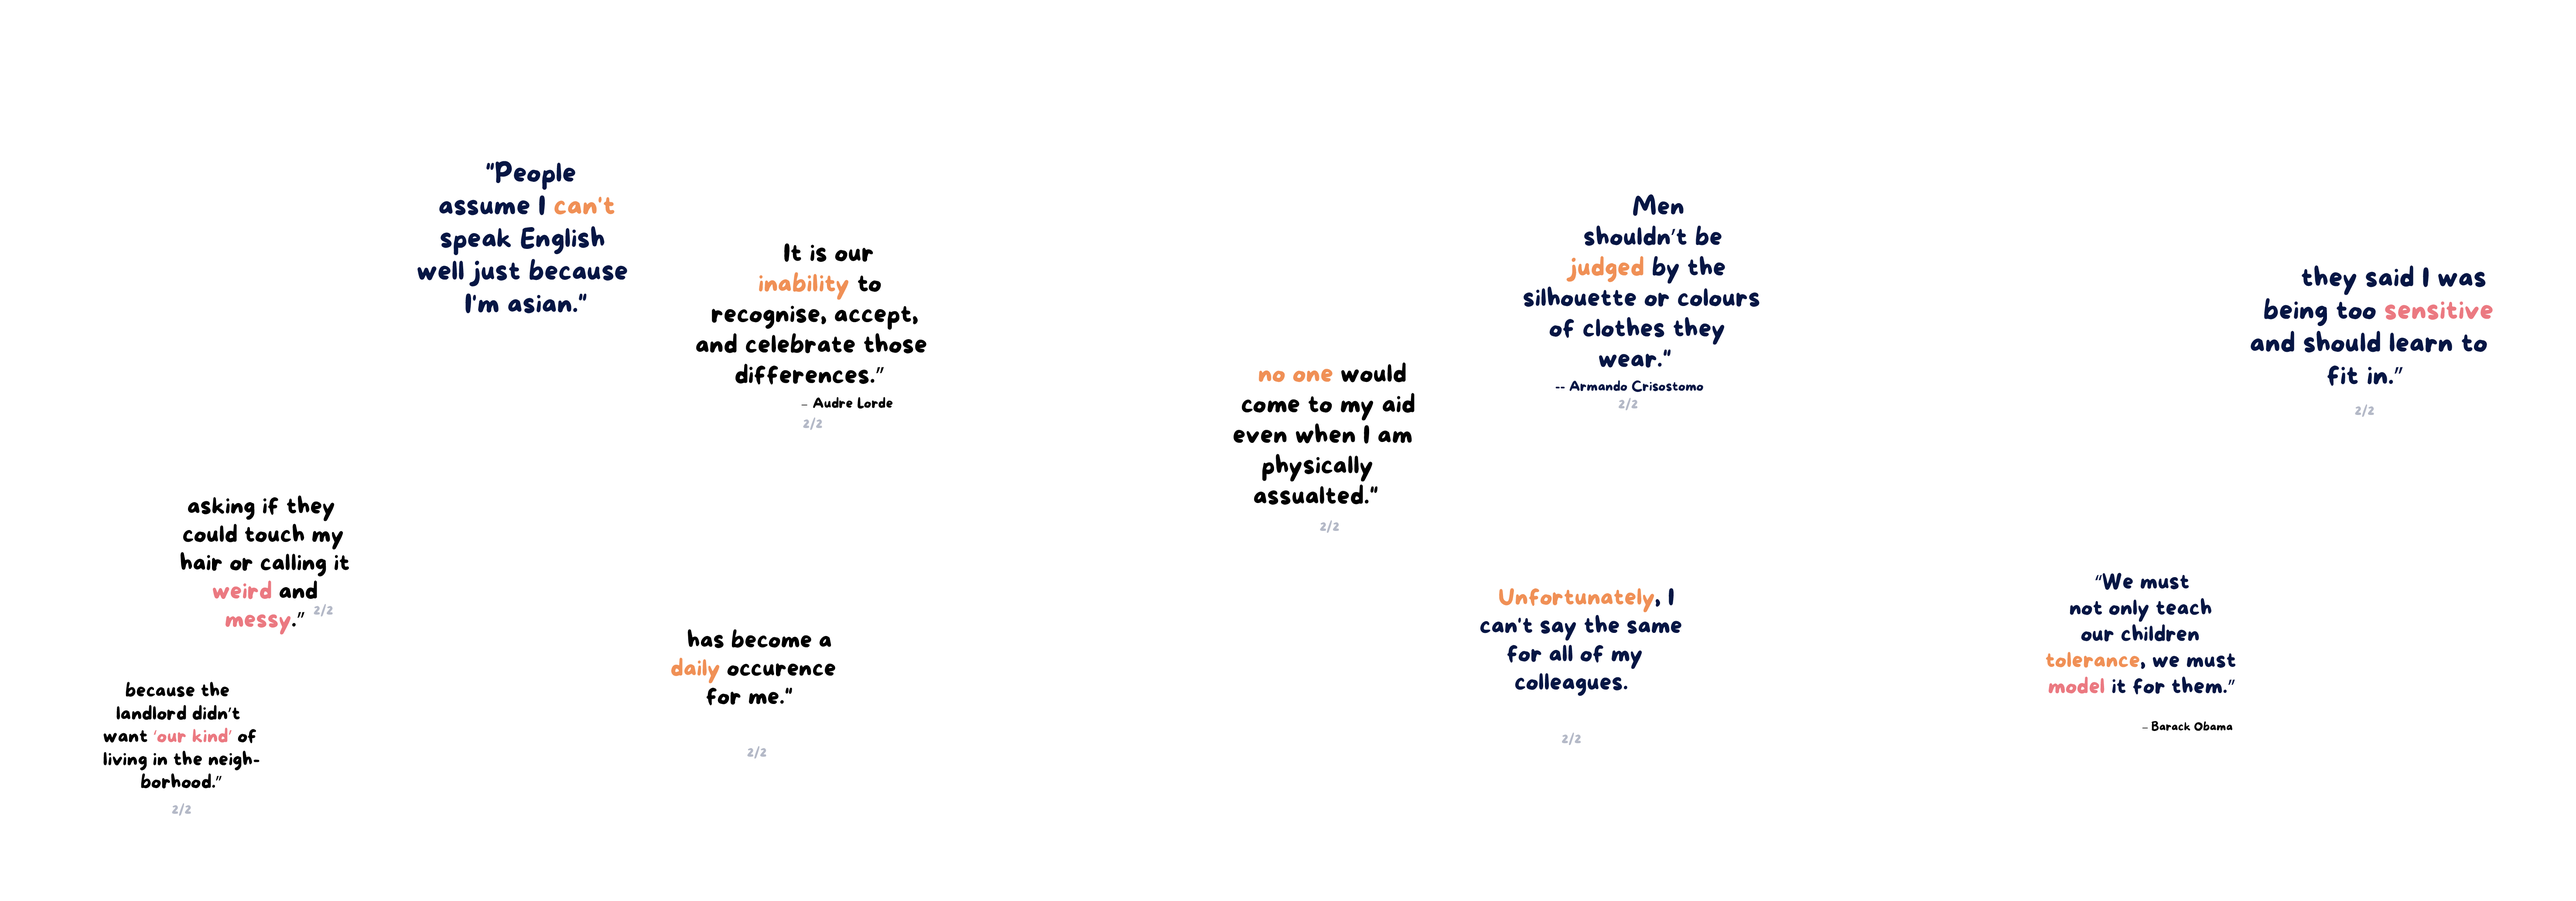
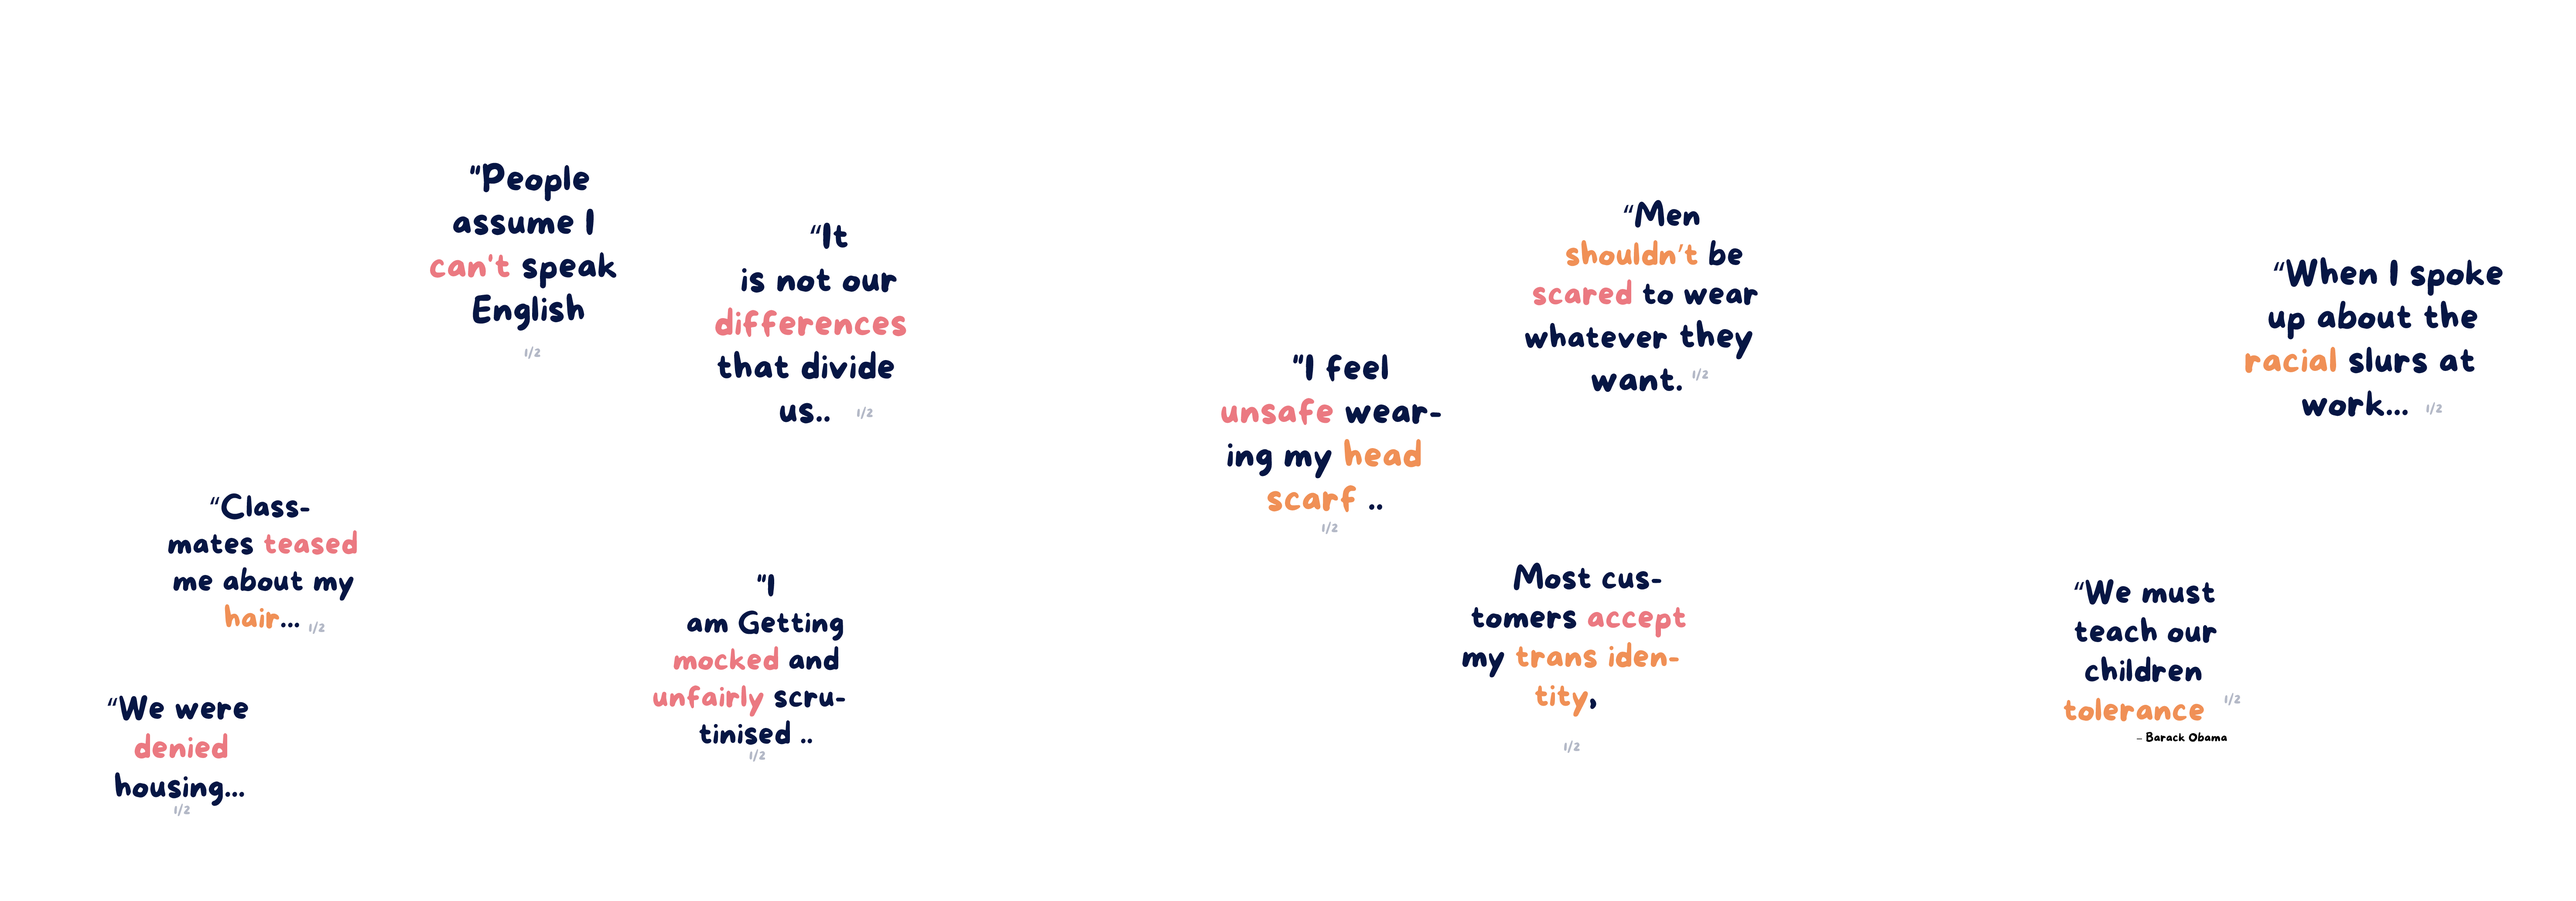
[UPDATE] New mode without highlights and larger text size

diff --git a/sketch.js b/sketch.js
@@ -1,4 +1,4 @@
-var toggle = false;
+var toggle = true;
 var mode = "display"
 const darkOverlays = [];
 
@@ -46,8 +46,13 @@ function draw() {
     case "presentation":
       presentation()
       break;
+    case "noHighLights":
+      noHighlights()
+      break;
+
+
   }
-  
+
   
 }
 
@@ -72,16 +77,16 @@ function timer(){
 function displayMode(){
   background("#141414");
   tint(255, 255);
-  image(bg, -windowWidth/2, imageHeight/2*-1, windowWidth, imageHeight);
+  image(bg, -windowWidth/2, imageHeight*-1/2, windowWidth, imageHeight);
   
   if(toggle){
-    image(textOverlay1, -windowWidth/2, imageHeight/2*-1, windowWidth, imageHeight);
-  }else image(textOverlay2, -windowWidth/2, imageHeight/2*-1, windowWidth, imageHeight);
+    image(textOverlay1, -windowWidth/2, imageHeight*-1/2, windowWidth, imageHeight);
+  }else image(textOverlay2, -windowWidth/2, imageHeight*-1/2, windowWidth, imageHeight);
 
   timer()
 
   tint(255, 235);
-  image(darkOverlays[imageToDisplay], -windowWidth/2, imageHeight/2*-1, windowWidth, imageHeight)
+  image(darkOverlays[imageToDisplay], -windowWidth/2, imageHeight*-1/2, windowWidth, imageHeight)
 }
 
 
@@ -91,20 +96,41 @@ function presentation() {
 
   
   fill("#fff")
-  rect(-windowWidth/2, imageHeight/2*-1, windowWidth, imageHeight)
+  rect(-windowWidth/2, imageHeight*-1/2, windowWidth, imageHeight)
 
   tint(255, 255);
 
+  // timer()
   if(toggle){
-    image(textOverlay1, -windowWidth/2, imageHeight/2*-1, windowWidth, imageHeight);
-  }else image(textOverlay2, -windowWidth/2, imageHeight/2*-1, windowWidth, imageHeight);
+    image(textOverlay1, -windowWidth/2, imageHeight*-1/2, windowWidth, imageHeight);
+  }else image(textOverlay2, -windowWidth/2, imageHeight*-1/2, windowWidth, imageHeight);
 
   timer()
 
-  image(darkOverlays[imageToDisplay], -windowWidth/2, imageHeight/2*-1, windowWidth, imageHeight)
+  tint(255, 235);
+  image(darkOverlays[imageToDisplay], -windowWidth/2, imageHeight*-1/2, windowWidth, imageHeight)
+}
+
+
+function noHighlights() {
+  background("#fff");
+
+  
+  // fill("#fff")
+  // // rect(-windowWidth/2, imageHeight*-1, windowWidth, imageHeight)
+
+  // tint(255, 255);
+
   if(toggle){
-    image(textOverlay1, -windowWidth/2, imageHeight/2*-1, windowWidth, imageHeight);
-  }else image(textOverlay2, -windowWidth/2, imageHeight/2*-1, windowWidth, imageHeight);
+    image(textOverlay1, -windowWidth/2, imageHeight*-1/2, windowWidth, imageHeight);
+  }else image(textOverlay2, -windowWidth/2, imageHeight*-1/2, windowWidth, imageHeight);
+
+  timer()
+
+  // image(darkOverlays[imageToDisplay], -windowWidth/2, imageHeight*-1, windowWidth, imageHeight)
+  // if(toggle){
+  //   image(textOverlay1, -windowWidth/2, imageHeight*-1, windowWidth, imageHeight);
+  // }else image(textOverlay2, -windowWidth/2, imageHeight*-1, windowWidth, imageHeight);
 }
 
 
@@ -123,6 +149,10 @@ function keyPressed(e){
       mode = "display";
       break;
 
+    case 78 ||110:
+      mode = "noHighLights";
+      break;
+  
     default:
       toggle = (!toggle)
       lastChangeTime = millis(); // Reset the timer
